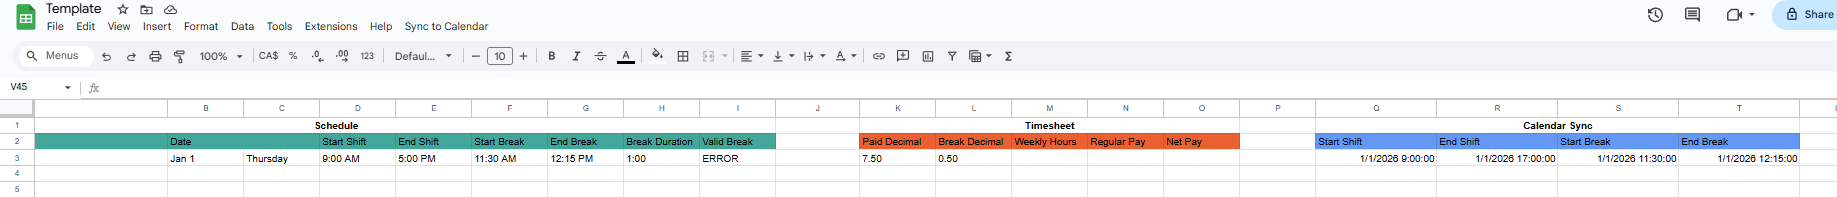
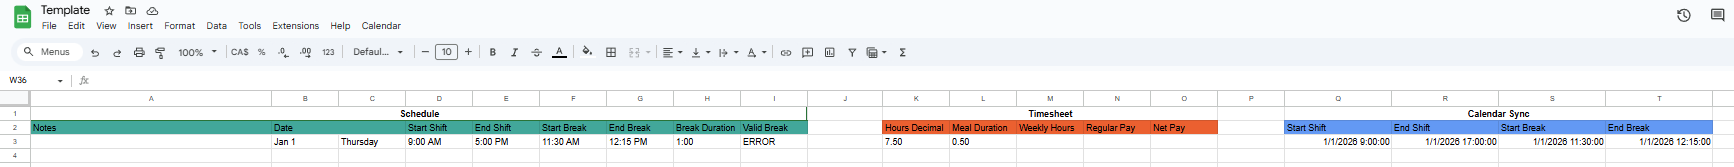
Add files via upload

diff --git a/README.md b/README.md
@@ -2,57 +2,90 @@
 
 ![Timesheet Example](Example.png)
 
-- Customs functions for Google Sheet written in JavaScript
-- Used to fill in pay timesheet easily
-- Create a way to notify major events like breaks and shift end through google calendar
+- Fill in timesheet with the correct data using Google Sheets and custom functions from Apps Script (written in JavaScript)
+- Send notifications to phone for events regarding start/end shift and breaks through Google Calendar
 
 ## Important
-- Always delete the consts `DATE_RANGE` and `CALENDAR_ID` after using Calendar Sync
+- Always delete the consts `DATE_RANGE` and `CALENDAR_ID` after using `Calendar - Sync Events`
   - This will prevent accidental duplication that makes deleting a pain
 - Always make a separate calendar and get its ID for apps script before syncing google sheets to calendar
 - Make sure that the device used to get the notifications has actually got the new updated schedule
   - On device, go to Settings - `Your Schedule` - Enable Sync
 
+## Google Sheets Template Data
+
+### Schedule
+- Notes
+- Date (eg. Jan 1 - Sunday)
+- Start Shift - `=GET_MY_TIME(Q3)`
+- End Shift - `=GET_MY_TIME(R3)`
+- Start Break - `=GET_MY_TIME(S3)`
+- End Break - `=GET_MY_TIME(T3)`
+- Break Duration - `=GET_BREAK_DURATION(Q3, R3)`
+- Valid Break - `=VALID_BREAK_CHECK(Q3, R3, S3, T3)`
+
+### Timesheet
+- Hours Decimal - `=GET_PAY_DECIMAL(Q3, R3)`
+- Meal Duration - `=GET_BREAK_DECIMAL(Q3, R3)`
+- Weekly Hours - `=GET_WEEKLY_HOURS(K3:K9)`
+- Regular Pay - `=GET_REGULAR PAY(M3:M16)`
+- Net Pay
+
+### Calendar Sync
+- Start Shift (eg. 1/1/2000 9:00:00)
+- End Shift (eg. 1/1/2000 17:00:00)
+- Start Break (eg. 1/1/2000 12:00:00)
+- End Break (eg. 1/1/2000 13:00:00)
+
 ## Get Started
-1. Add script to Google Sheet
-  - Go to `Extensions - Apps Script`
-    - May need to open within browser incognito mode to work
-  - Paste the provided `.gs` file
-  - In apps script, update `calendarId`
-    - Get ID from google calendar settings
-2. Add custom functions
-  - Go to Data - Named Functions
-  - Create a new function (example provided below)
-    - Function Name: GET_WORK_DECIMAL
-    - Function Description: Gets the work duration in decimal format.
-    - Argument Placeholders: workduration
-    - Formula Definition: =JS_GET_WORK_DECIMAL(TO_TEXT(workduration))
-    - Argument Description: The duration of work without including break.
-3. Use the function
-  - eg. =GET_WORK_DECIMAL(D2-C2)
-  - Make sure to set the cell to a proper format
-    - Go to Format - Number - Automatic
-4. Update Google Sheets Data
-  - Fill in the following data fields in Google Sheets:
-    - Schedule
-      - Notes
-      - Date
-   - Timesheet
-      - Weekly Hours (eg. `=GET_WEEKLY_HOURS(K10:K16)`)
-      - Regular Pay (eg. `=GET_REGULAR_PAY(M3:M16)`)
-      - Net Pay
-    - Calendar Sync
-      - Start Shift
-      - End Shift
-      - Start Break
-      - End Break
-5. Update Apps Script Calendar `DATE_RANGE`
-  - Add the range data from the Google Sheet `Calendar Sync`
+
+### 1. Add script to Google Sheet
+- Go to `Extensions - Apps Script`
+- May need to open within browser incognito mode to work
+- Paste the provided `.gs` file
+- In apps script, update `calendarId`
+- Get ID from google calendar settings
+
+### 2. Add custom functions
+- Go to `Data - Named Functions`
+- Create a new function (example provided below)
+- Function Name: GET_WORK_DECIMAL
+- Function Description: Gets the work duration in decimal format.
+- Argument Placeholders: workduration
+- Formula Definition: =JS_GET_WORK_DECIMAL(TO_TEXT(workduration))
+- Argument Description: The duration of work without including break.
+
+### 3. Use the function
+- eg. =GET_WORK_DECIMAL(D2-C2)
+- Make sure to set the cell to a proper format
+- Go to Format - Number - Automatic
+
+### 4. Update Google Sheets Data
+- Fill in the following data fields in Google Sheets:
+- Schedule
+  - Notes
+  - Date (eg. Jan 1 - Sunday)
+- Timesheet
+  - Weekly Hours (eg. `=GET_WEEKLY_HOURS(K10:K16)`)
+  - Regular Pay (eg. `=GET_REGULAR_PAY(M3:M16)`)
+  - Net Pay
+- Calendar Sync
+  - Start Shift
+  - End Shift
+  - Start Break
+  - End Break
+
+### 5. Update Apps Script Data
+- Add the range data for Apps Script from the Google Sheet `Calendar Sync` section
     - eg. `const DATE_RANGE = "Q3:T40";`
-6. Sync Calendar to Google Sheets
-  - On Google Sheets, go to `Sync to Calendar - Add Events to Calendar`
-    - May need to give permissions to edit
-7. Add notification to events in Google Calendar
-  - Go to Settings for your Calendar Profile
-  - Add `Event notification` to (eg. 15 minutes) before event start
-  - Remove `All-day event notifications`
+- Update the calendar ID for Apps Script
+    - Get calendar ID from Google Calendar (Settings - Settings for my calendars - `Your calendar` - Integrate calendar)
+
+### 6. Sync Calendar to Google Sheets
+- On Google Sheets, go to `Sync to Calendar - Add Events to Calendar`
+- May need to give permissions to edit
+
+### 7. Add notification to events in Google Calendar
+- Go to Settings for your Calendar Profile
+- Add `Event notification` to (eg. 15 minutes) before event start
+- Remove `All-day event notifications`
